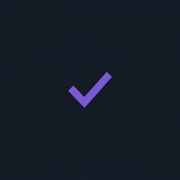
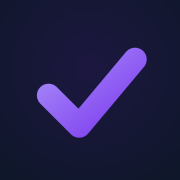
アプリアイコンを大きく描き直し、ログアウトをアカウントダイアログ経由に変更

Changed region(s): [[0.1944, 0.25, 0.8333, 0.7778]]

diff --git a/index.html b/index.html
@@ -108,11 +108,10 @@
         <div class="max-w-5xl mx-auto flex items-center justify-between gap-4">
             <!-- Account -->
             <div class="flex items-center gap-2">
-                <img :src="user && user.photoURL" class="w-7 h-7 rounded-full border border-slate-700" referrerpolicy="no-referrer">
-                <span class="hidden sm:inline text-xs text-slate-300" x-text="user && user.displayName"></span>
-                <button @click="signOut()" title="ログアウト"
-                        class="p-1.5 rounded-lg bg-slate-800/80 hover:bg-slate-700/80 border border-slate-700/50 text-slate-300 hover:text-white transition-all active:scale-95">
-                    <i data-lucide="log-out" class="w-4 h-4"></i>
+                <button @click="activeModal = 'account'" title="アカウント"
+                        class="flex items-center gap-2 hover:opacity-80 transition-opacity active:scale-95">
+                    <img :src="user && user.photoURL" class="w-7 h-7 rounded-full border border-slate-700" referrerpolicy="no-referrer">
+                    <span class="hidden sm:inline text-xs text-slate-300" x-text="user && user.displayName"></span>
                 </button>
             </div>
 
@@ -494,6 +493,39 @@
             </div>
 
             <p class="text-xs text-center text-slate-500">日付をクリックすると、その日のTo-Do一覧へジャンプします</p>
+        </div>
+    </div>
+
+    <!-- Modal 3: アカウント (ログアウト確認) -->
+    <div x-show="activeModal === 'account'"
+         x-transition:enter="transition ease-out duration-200"
+         x-transition:enter-start="opacity-0 scale-95"
+         x-transition:enter-end="opacity-100 scale-100"
+         x-transition:leave="transition ease-in duration-150"
+         x-transition:leave-start="opacity-100 scale-100"
+         x-transition:leave-end="opacity-0 scale-95"
+         class="fixed inset-0 z-50 flex items-center justify-center p-4 bg-slate-950/80 backdrop-blur-md"
+         style="display: none;">
+
+        <div @click.away="activeModal = null" class="bg-slate-900 border border-slate-800 rounded-3xl max-w-sm w-full p-6 shadow-2xl flex flex-col gap-5">
+            <div class="flex items-center justify-between">
+                <div class="flex items-center gap-3">
+                    <img :src="user && user.photoURL" class="w-11 h-11 rounded-full border border-slate-700" referrerpolicy="no-referrer">
+                    <div>
+                        <p class="font-semibold text-sm text-white" x-text="user && user.displayName"></p>
+                        <p class="text-xs text-slate-400" x-text="user && user.email"></p>
+                    </div>
+                </div>
+                <button @click="activeModal = null" class="text-slate-400 hover:text-white p-1 rounded-lg">
+                    <i data-lucide="x" class="w-5 h-5"></i>
+                </button>
+            </div>
+
+            <button @click="signOut(); activeModal = null"
+                    class="w-full px-4 py-2.5 bg-red-600/10 hover:bg-red-600/20 border border-red-600/30 text-red-400 text-sm font-semibold rounded-xl flex items-center justify-center gap-2 transition-all active:scale-95">
+                <i data-lucide="log-out" class="w-4 h-4"></i>
+                <span>ログアウト</span>
+            </button>
         </div>
     </div>
 

diff --git a/app.js b/app.js
@@ -11,7 +11,7 @@ function todoApp() {
         newRoutineTitle: '',
 
         // Modal & Navigation States
-        activeModal: null, // 'routines' | 'monthly' | null
+        activeModal: null, // 'routines' | 'monthly' | 'account' | null
         summaryYearMonth: '', // YYYY-MM
 
         // Cloud Sync States
@@ -93,7 +93,8 @@ function todoApp() {
                     this.user = {
                         uid: fbUser.uid,
                         displayName: fbUser.displayName,
-                        photoURL: fbUser.photoURL
+                        photoURL: fbUser.photoURL,
+                        email: fbUser.email
                     };
                     await this.syncFromCloud();
                 } else {
